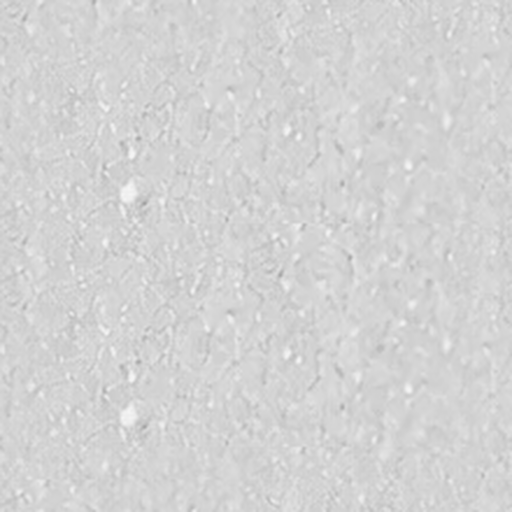
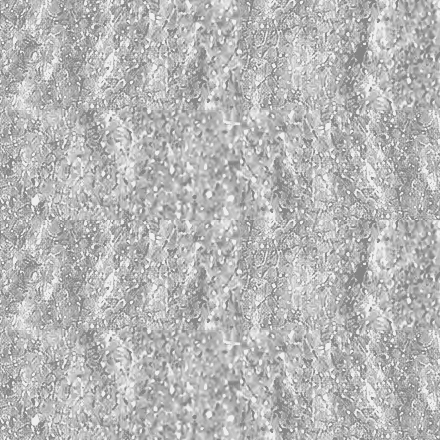
fix(set): use native reference stone instead of a blurred tile
Clean front-face crops already carry the reference spectrum, about
60 percent fine and 26 percent mid. The previous tile lost that in
resampling. The pedestal now repeats those pixels at the photographed
grain size. Day world fill stays at the neutral baseline.

diff --git a/blender/canonical_set.py b/blender/canonical_set.py
@@ -430,8 +430,8 @@ def _pedestal_surface(mat):
     rough = _load("T_pedestal_roughness.png", "Non-Color")
     if albedo is None or rough is None:
         return False
-    color = _triplanar(nt, albedo, 16.0, "PedestalStone")
-    rough_c = _triplanar(nt, rough, 16.0, "PedestalRough")
+    color = _triplanar(nt, albedo, 4.0, "PedestalStone")
+    rough_c = _triplanar(nt, rough, 4.0, "PedestalRough")
     creation = next((node for node in nt.nodes if node.name == "CreationMix"), None)
     target = creation.inputs[1] if creation else bs.inputs["Base Color"]
     for link in list(target.links):
